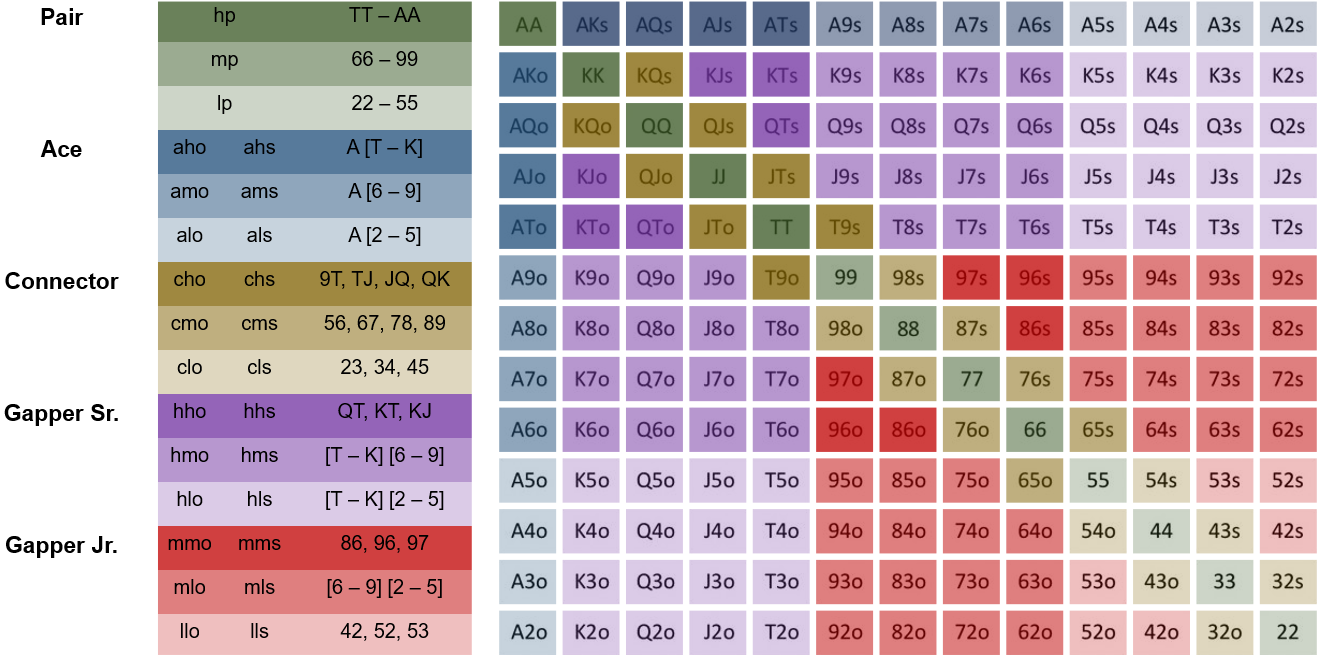
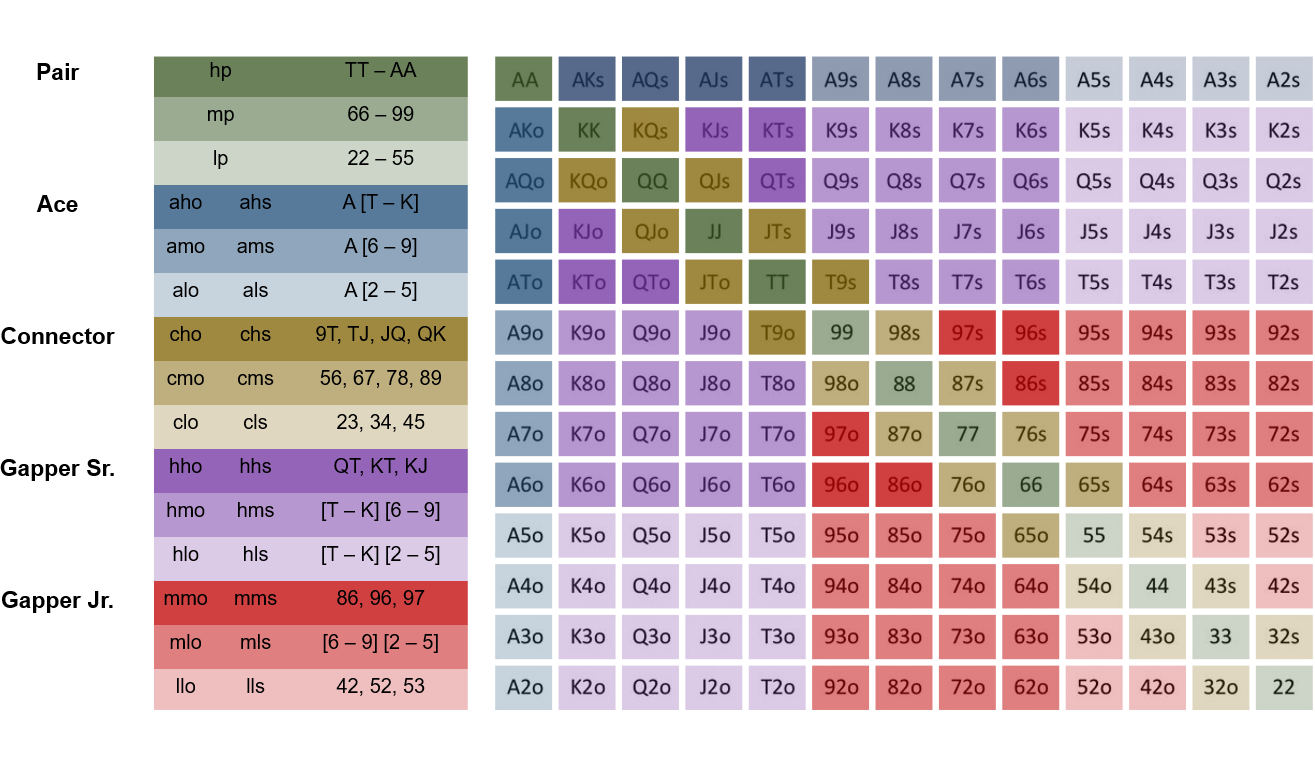
Improved layout

diff --git a/program.py b/program.py
@@ -66,7 +66,7 @@ app.layout = html.Div([
 
             html.Div([
                 html.Button(id='spacer_0', n_clicks=0, style={'width':'99%'})
-            ], style={'display':'inline-block', 'width':'20%', 'visibility':'hidden'}),
+            ], style={'display':'inline-block', 'width':'12%', 'visibility':'hidden'}),
 
             html.Div([
                 html.Div(id='product_name_container', style={'width':'99%'})
@@ -74,7 +74,7 @@ app.layout = html.Div([
      
         ]),
 
-    ], style={'font-weight':'bold', 'font-size':'12px', 'font-family':'Arial'}),
+    ], style={'font-weight':'bold', 'font-size':'12px', 'font-family':'Arial', 'position':'absolute', 'width':'1500px', 'height':'10px', 'top':'2px'}),
 
     html.Div([
 
@@ -90,7 +90,7 @@ app.layout = html.Div([
 
         html.Div([
             html.Button(id='spacer_1', n_clicks=0, style={'width':'99%'})
-        ], style={'display':'inline-block', 'width':'5%', 'visibility':'hidden'}),
+        ], style={'display':'inline-block', 'width':'4%', 'visibility':'hidden'}),
 
 
         html.Div([
@@ -110,7 +110,7 @@ app.layout = html.Div([
 
         ], style={'display': 'inline-block'}),
 
-    ], style={'font-weight':'bold', 'font-size':'12px', 'font-family':'Arial', 'padding-top': '4px'}),
+    ], style={'font-weight':'bold', 'font-size':'12px', 'font-family':'Arial', 'padding-top': '4px', 'position':'absolute', 'width':'1500px', 'height':'10px', 'top':'25px'}),
 
 
     html.Div([
@@ -139,7 +139,7 @@ app.layout = html.Div([
 
         html.Div([
             html.Button(id='spacer_2', n_clicks=0, style={'width':'99%'})
-        ], style={'display':'inline-block', 'width':'5%', 'visibility':'hidden'}),
+        ], style={'display':'inline-block', 'width':'4%', 'visibility':'hidden'}),
 
         html.Div([
             html.Div([
@@ -155,22 +155,24 @@ app.layout = html.Div([
         
         ], style={'display':'inline-block'}),
 
-    ], style={'font-weight':'bold', 'font-size':'12px', 'font-family':'Arial', 'padding-top': '2px'}), 
+    ], style={'font-weight':'bold', 'font-size':'12px', 'font-family':'Arial', 'padding-top': '2px', 'position':'absolute', 'width':'1500px', 'height':'10px', 'top':'65px'}), 
+    
+    html.Div([
+        html.Span(id='legend_container'),
 
-    html.Span(id='legend_container'),
+        dcc.Graph(
+            id='graph',
+            config={'displayModeBar': False, 'showTips': False},
+            style={'visibility':'hidden'}
+            #figure=fig
+        ), 
 
-    dcc.Graph(
-        id='graph',
-        config={'displayModeBar': False, 'showTips': False},
-        style={'visibility':'hidden'}
-        #figure=fig
-    ), 
+        dcc.Store(id='test_answers'),
+        dcc.Store(id='trace_names')
 
-    dcc.Store(id='test_answers'),
-    dcc.Store(id='trace_names')
-
-    #html.Span('test', id='tooltip-target'),
-    #dbc.Tooltip('hover text', target='tooltip-target')
+        #html.Span('test', id='tooltip-target'),
+        #dbc.Tooltip('hover text', target='tooltip-target')
+    ], style={'position':'absolute', 'width':'1500px', 'height':'650px', 'top':'104px'})
 ])
 
 
